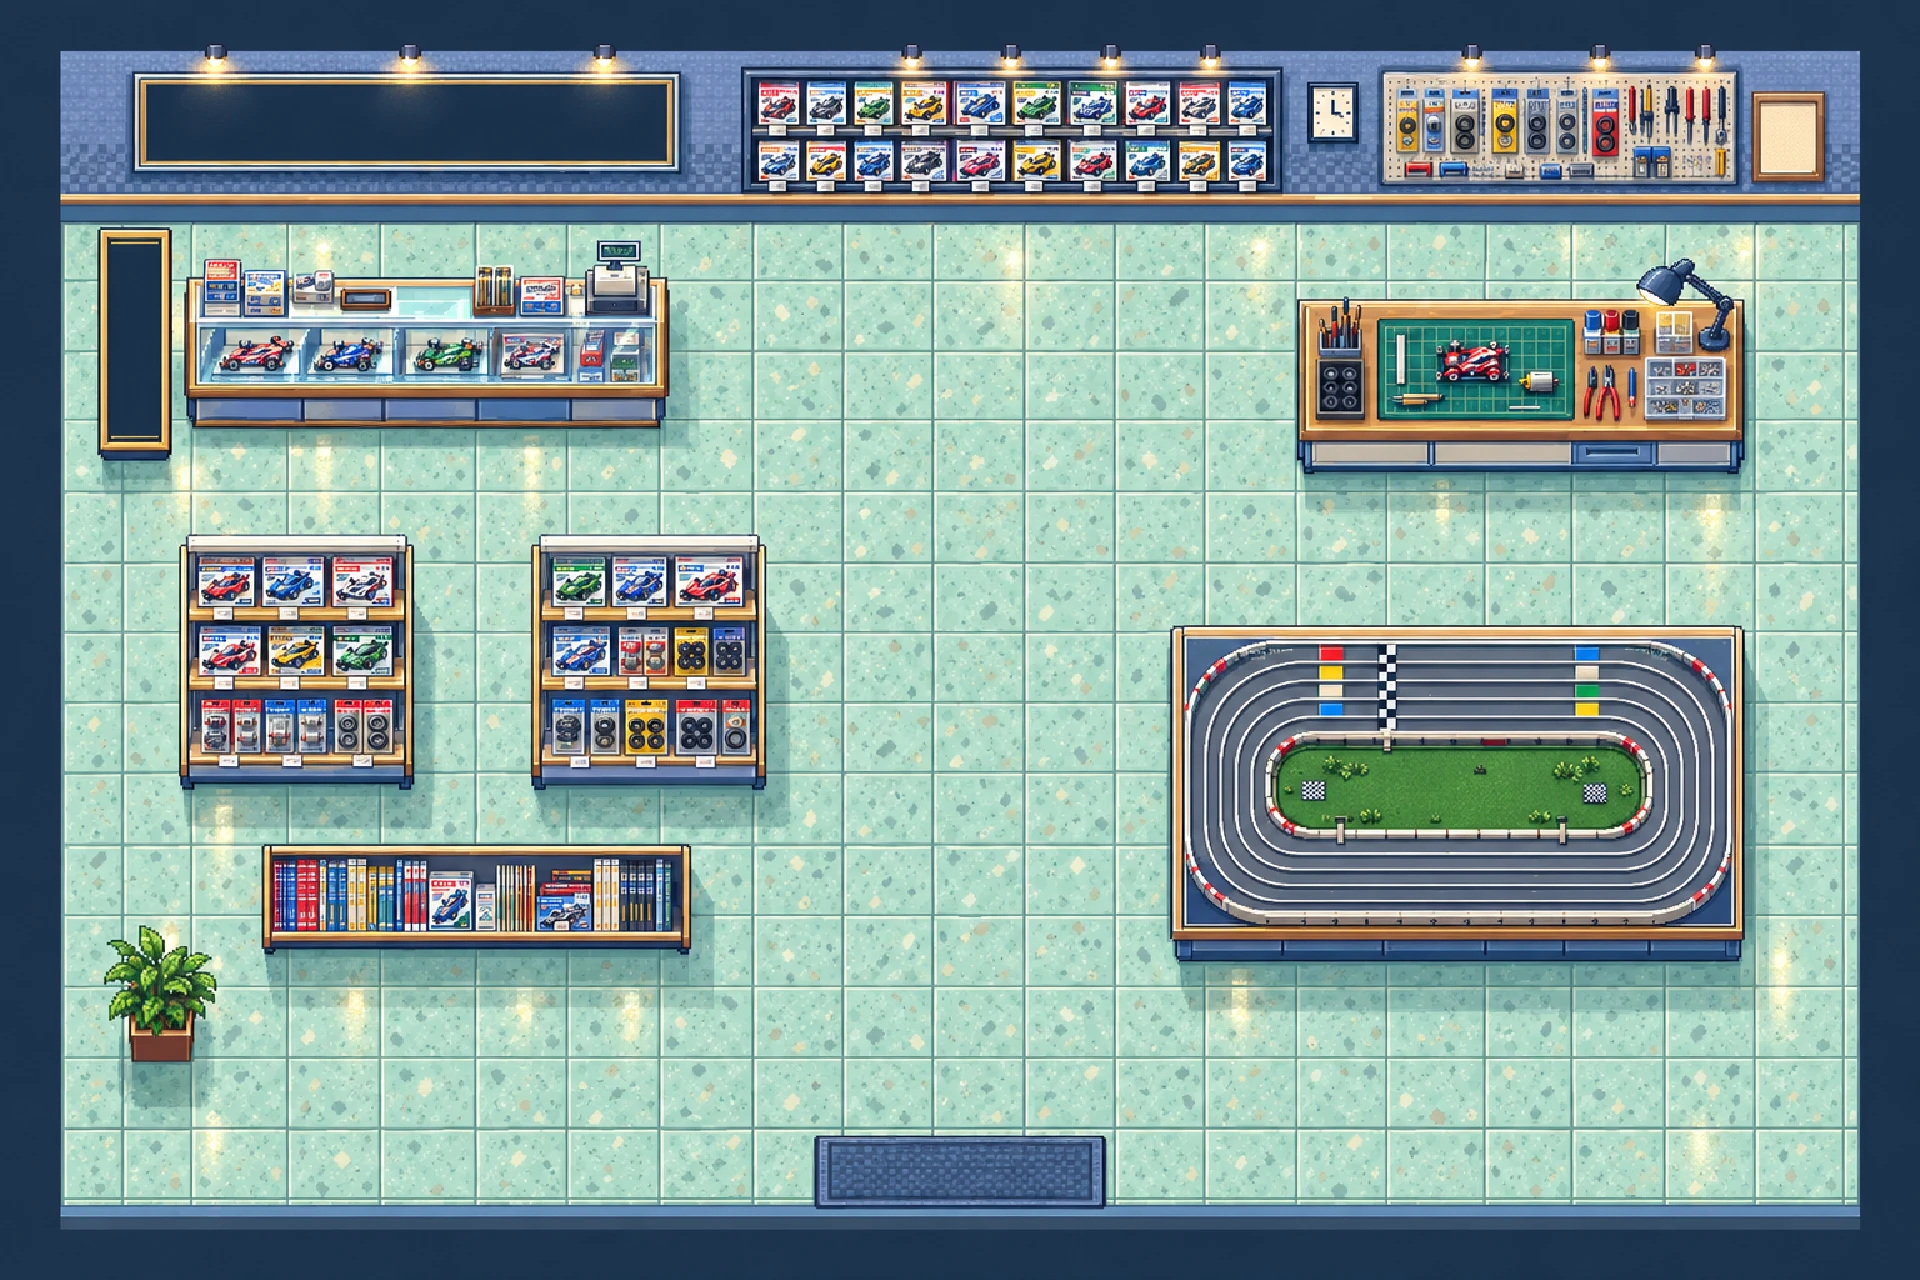
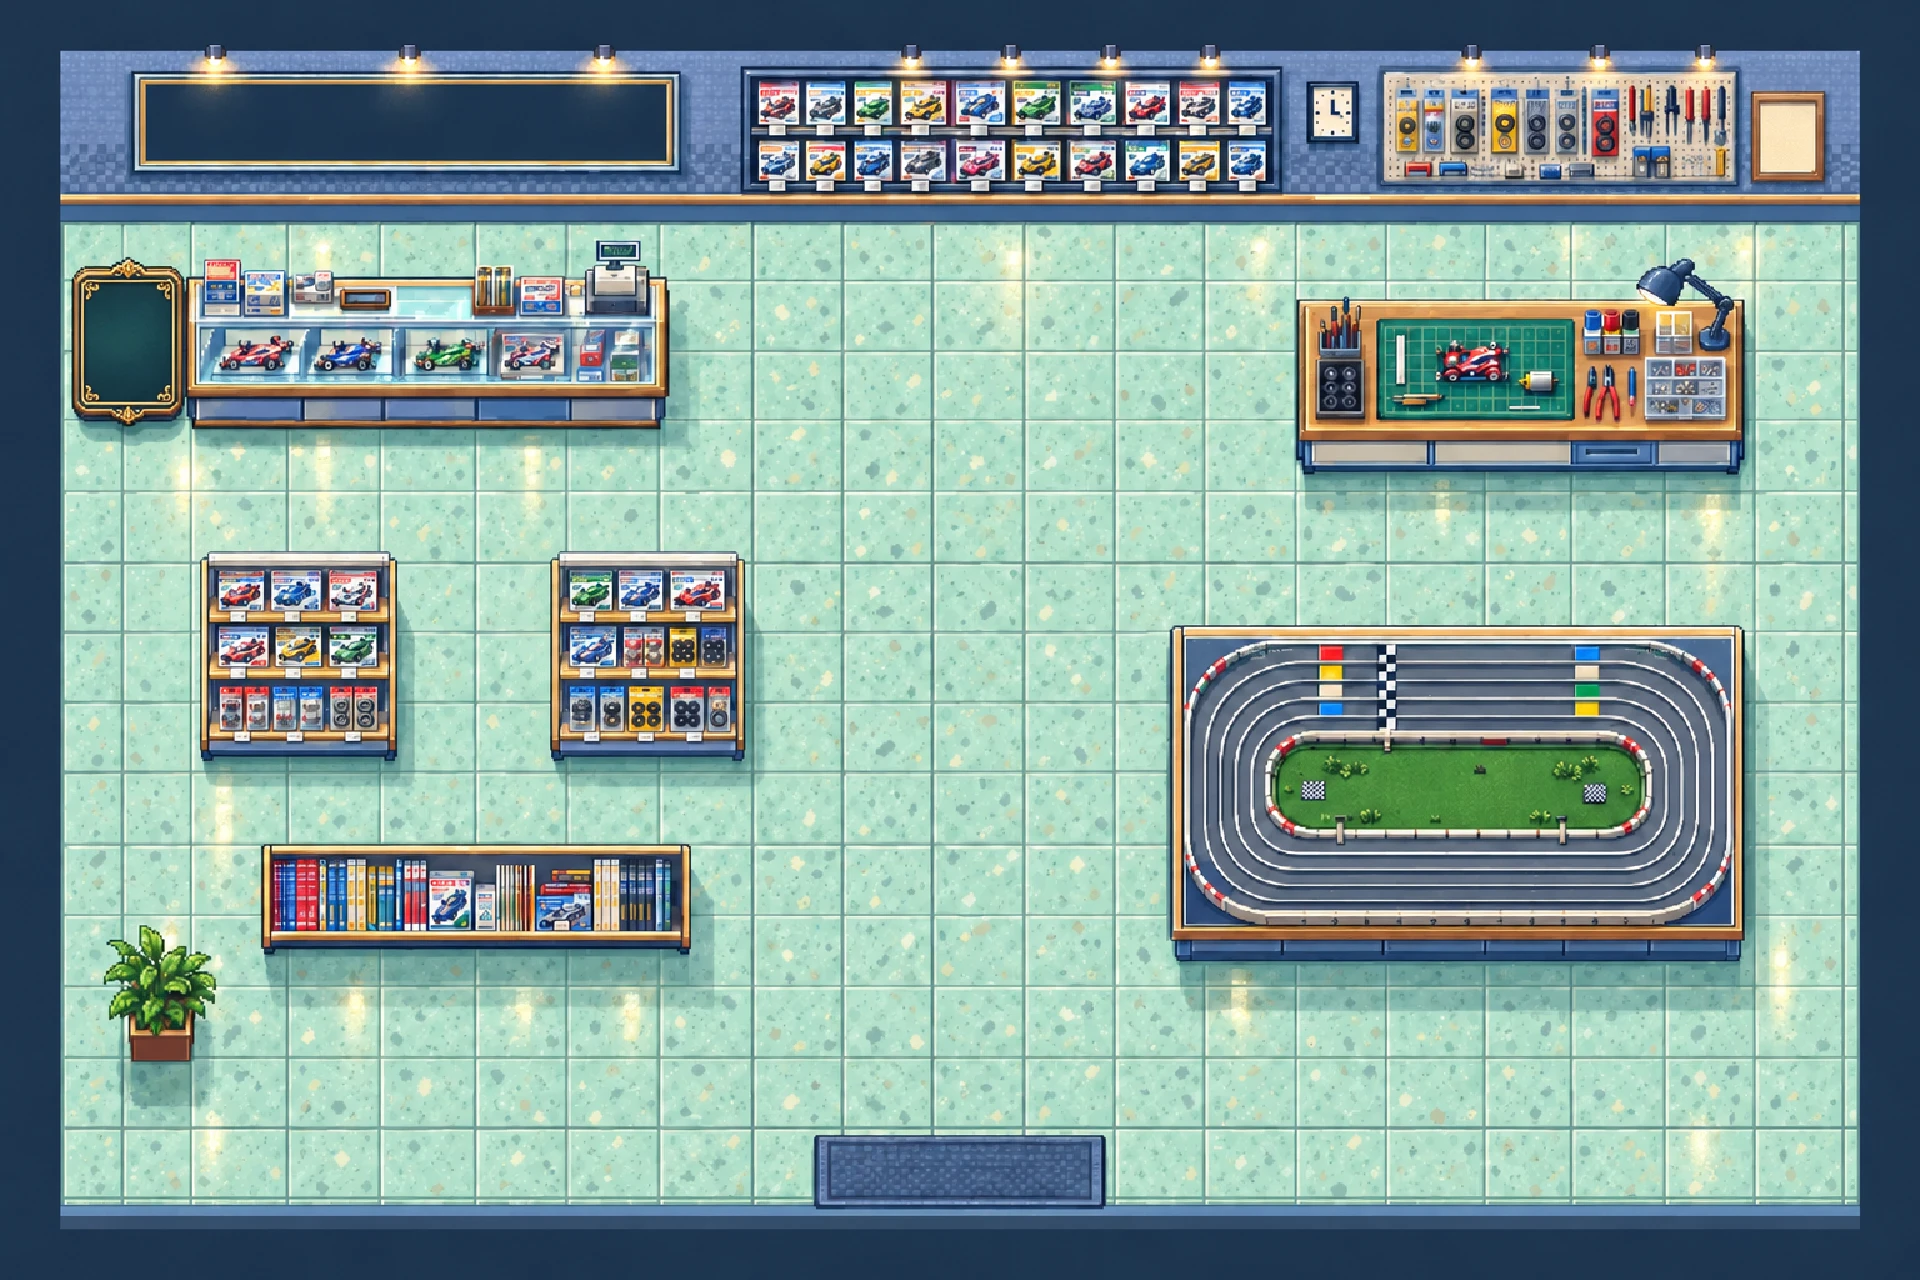
Correct shop fixture scale against characters

diff --git a/src/data/shop.ts b/src/data/shop.ts
@@ -7,10 +7,10 @@ export interface Fixture { x:number; y:number; w:number; h:number; kind:'shelf'|
 export const fixtures:Fixture[] = [
   {x:342,y:35,w:300,h:95,kind:'legends',label:'レジェンドマシン展示',text:'熟練度上位4人の愛機。展示を調べてマシンとセッティングを見る。'},
   {x:132,y:424,w:214,h:52,kind:'bookshelf',label:'セッティング本棚',text:'調べるたびに次の本を読める。賞金・改造・ブレークイン・参考セッティング・次の目標の全6冊。'},
-  {x:50,y:114,w:36,h:114,kind:'board',label:'熟練度表',text:'整備と走行で身につく熟練度の一覧。'},
+  {x:36,y:130,w:57,h:80,kind:'board',label:'熟練度表',text:'整備と走行で身につく熟練度の一覧。'},
   {x:94,y:138,w:240,h:76,kind:'counter',label:`店主 ${story.owner}`,text:'いらっしゃい、湊くん。こもれび模型店へようこそ。まずは手持ちの予算で工夫してみよう！完走賞を貯めて買い足せば、凪くんにも挑めるよ。熟練度は左上の掲示板で確認できるよ。'},
-  {x:90,y:269,w:116,h:125,kind:'shelf',label:'モーターパーツ棚',text:'小さな箱に、走りの可能性が詰まっている。パーツは店主のハルさんから購入できる。'},
-  {x:268,y:269,w:115,h:126,kind:'shelf',label:'足回りパーツ棚',text:'タイヤ、ローラー、ギアが並んでいる。組み合わせを考えるだけで楽しくなる。'},
+  {x:102,y:277,w:93,h:102,kind:'shelf',label:'モーターパーツ棚',text:'小さな箱に、走りの可能性が詰まっている。パーツは店主のハルさんから購入できる。'},
+  {x:277,y:277,w:95,h:102,kind:'shelf',label:'足回りパーツ棚',text:'タイヤ、ローラー、ギアが並んでいる。組み合わせを考えるだけで楽しくなる。'},
   {x:650,y:150,w:222,h:88,kind:'bench',label:'作業台',text:'所持パーツを交換して、マシンをセッティングしよう。'},
   {x:588,y:315,w:286,h:163,kind:'track',label:'試走コース',text:'標準装備のマシンで、CPU4台との5レーン・5周レース。3カウントで発進し、毎周レーンチェンジする。'},
   {x:54,y:464,w:54,h:68,kind:'plant',label:'観葉植物',text:'日当たりのいい場所で、元気に育っている。'},

diff --git a/src/data/shopLayout.ts b/src/data/shopLayout.ts
@@ -10,7 +10,7 @@ export function shopLayout(id:ShopId){
    {x:250,y:285,w:500,h:190,kind:'track',label:'レースコース',text:'何度でも挑戦できる5台レース。'},
    {x:95,y:285,w:100,h:185,kind:'shelf',label:'観覧席',text:'レーサーたちがセッティングを見比べている。'},
    {x:800,y:285,w:85,h:185,kind:'shelf',label:'観覧席',text:'コーナーや坂の走りを見て応援している。'},
-   {x:50,y:114,w:36,h:114,kind:'board',label:'熟練度表',text:'レーサーたちの熟練度を見る。'},
+   {x:36,y:130,w:57,h:80,kind:'board',label:'熟練度表',text:'レーサーたちの熟練度を見る。'},
   ]:fixtures;
   return source.map(source=>({source,target:mirroredShop(id)?{...source,x:room.width-source.x-source.w}:source}));
 }

diff --git a/src/data/timeBoard.ts b/src/data/timeBoard.ts
@@ -3,7 +3,7 @@ import type {ShopId} from './world';
 /** コース台の右下の端。出口・本棚・作業台の通路は塞がない。 */
 export function timeBoardPlacement(shop:ShopId){
  const track=shopLayout(shop).find(f=>f.target.kind==='track')!.target;
- return {x:track.x+track.w-142,y:track.y+track.h+5,w:142,h:74};
+ return {x:track.x+track.w-116,y:track.y+track.h+5,w:116,h:64};
 }
 export function timeBoardObstacle(shop:ShopId){const p=timeBoardPlacement(shop);return {x:p.x+8,y:p.y+p.h-10,width:p.w-16,height:10};}
 

diff --git a/docs/shop-interior-art.md b/docs/shop-interior-art.md
@@ -3,11 +3,15 @@
 組み込み画像生成ツールで独自の模型店を制作。既存ゲームの画像は素材として使用していません。
 
 - 配置参照: [art/shop-layout-reference.png](art/shop-layout-reference.png)。既存描画から人物・UIを除いた960×640の配置図。
-- 使用画像: `src/assets/shop/interior-v1.webp`。生成原画1536×1024を最近傍補間で1920×1280へ調整しWebP品質90へ変換。約511KB。
+- 使用画像: `src/assets/shop/interior-v1.webp`。画像生成の原画1536×1024を最近傍補間で1920×1280へ調整しWebP品質90へ変換。
 - 論理マップは960×640。画像の家具輪郭に合わせ`src/data/shop.ts`の当たり判定を調整。
 - 背景と前景は同一テクスチャを共有。家具の底辺で重なり順を決定。前景は家具の上端から切り出し、不透明な床で背後の人物を隠さない。
 - 店名・熟練度表・分類はライブテキスト。人物は60×80歩行スプライトを継続使用。
 - 背景読み込み失敗時は従来のコード描画へフォールバック。
+
+## 人物に合わせた家具の縮尺調整
+
+2026-11-10、人物スプライト（48×64論理px）と比べて縦長だった熟練度掲示板と大きすぎた商品棚を見直しました。掲示板は57×80、商品棚は93〜95×102論理pxにし、床に置く棚は元の位置を保って縮小しました。配置と当たり判定は同じ `shop.ts` のFixture値から描画します。作業台・カウンター・コースと経路探索の処理は維持し、縮小した障害物に合わせて到達性を再検証しました。
 
 ## 最終生成プロンプト
 
